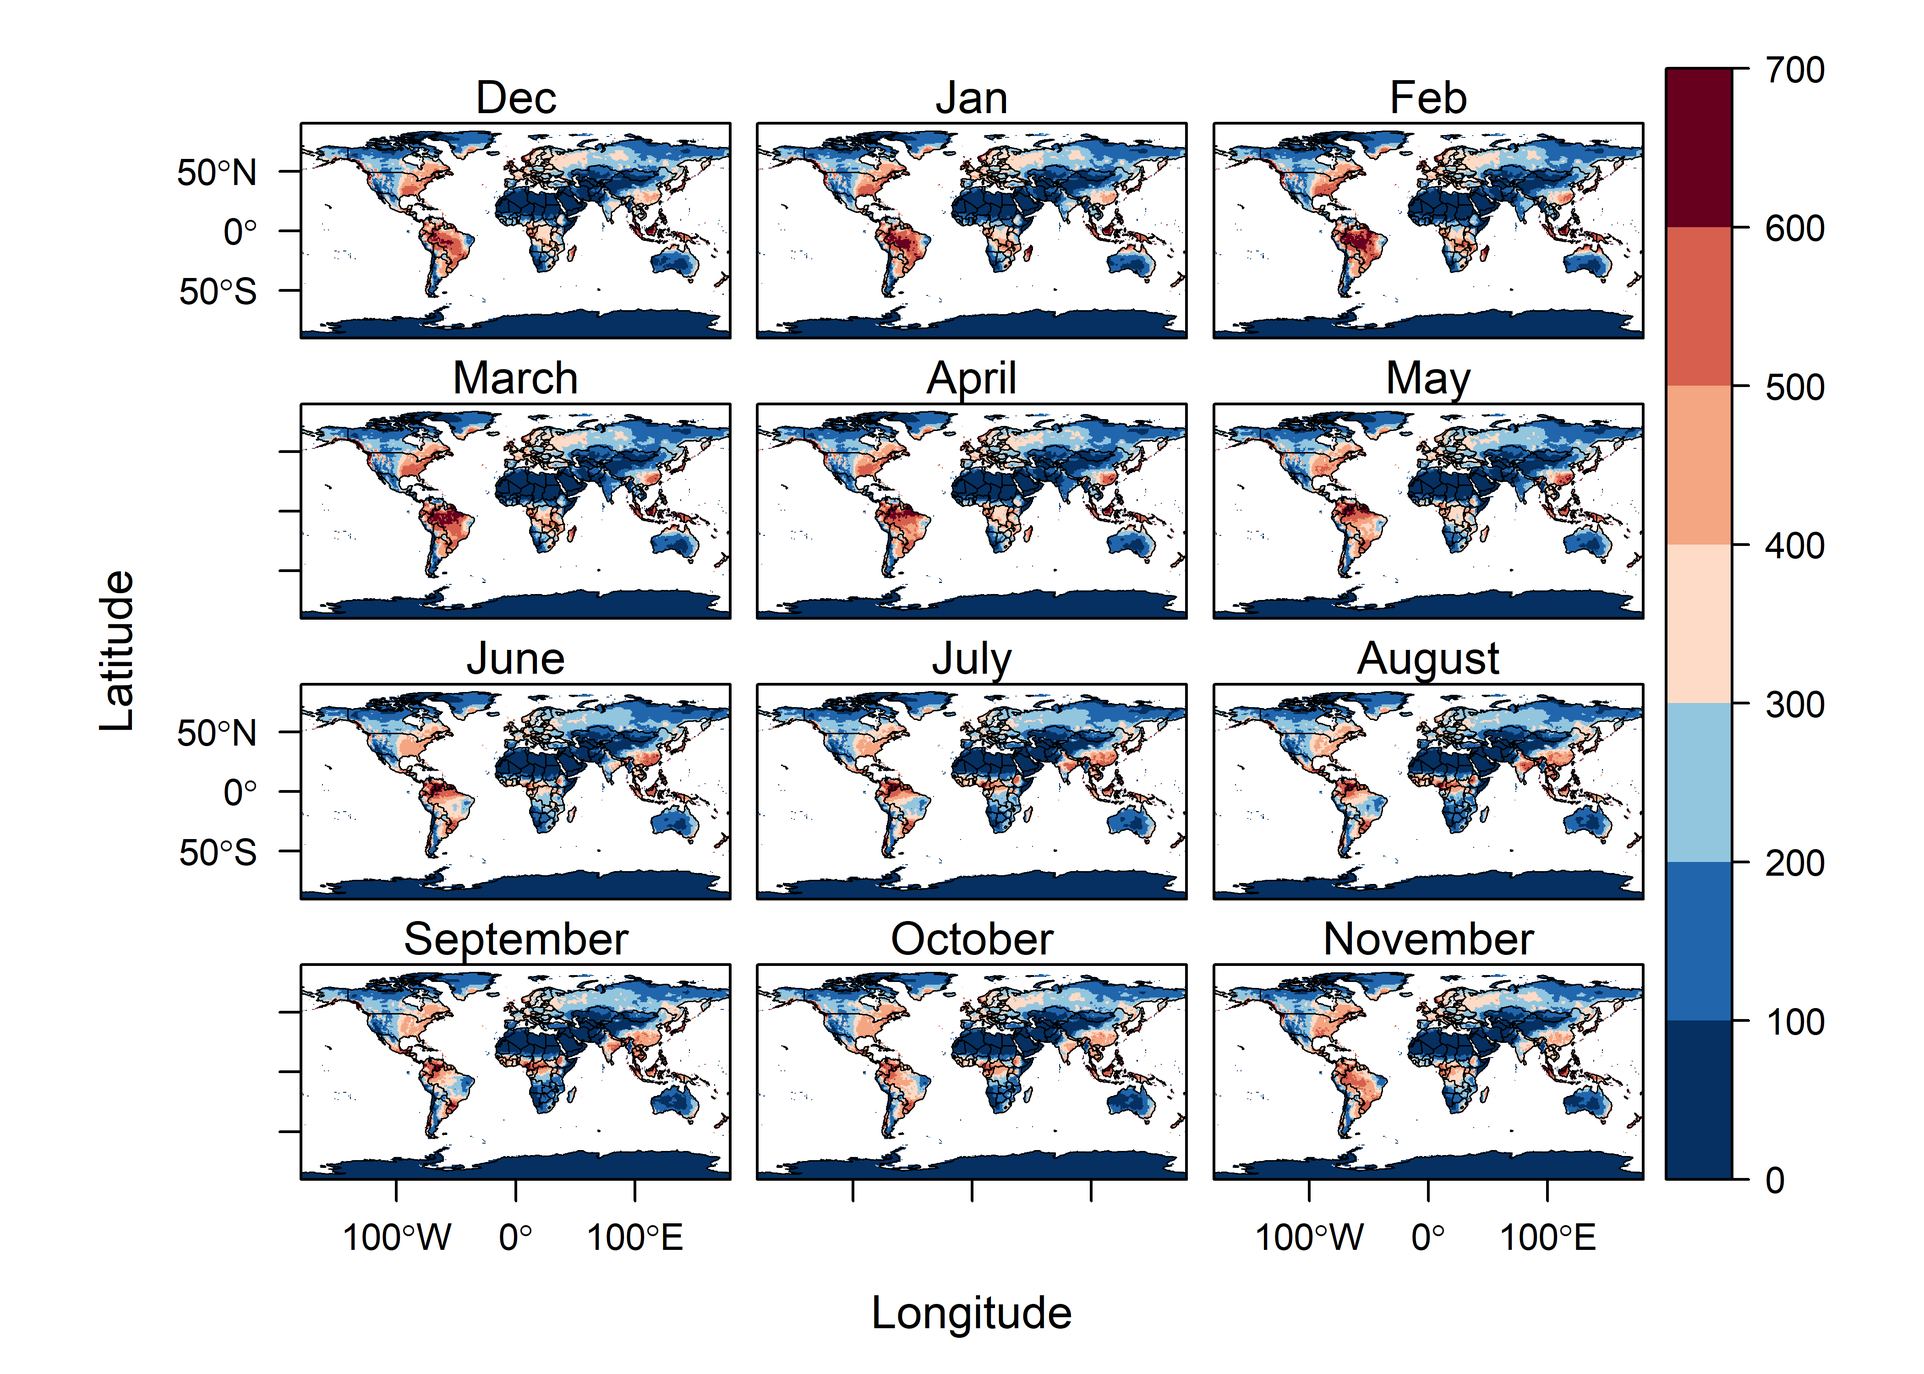
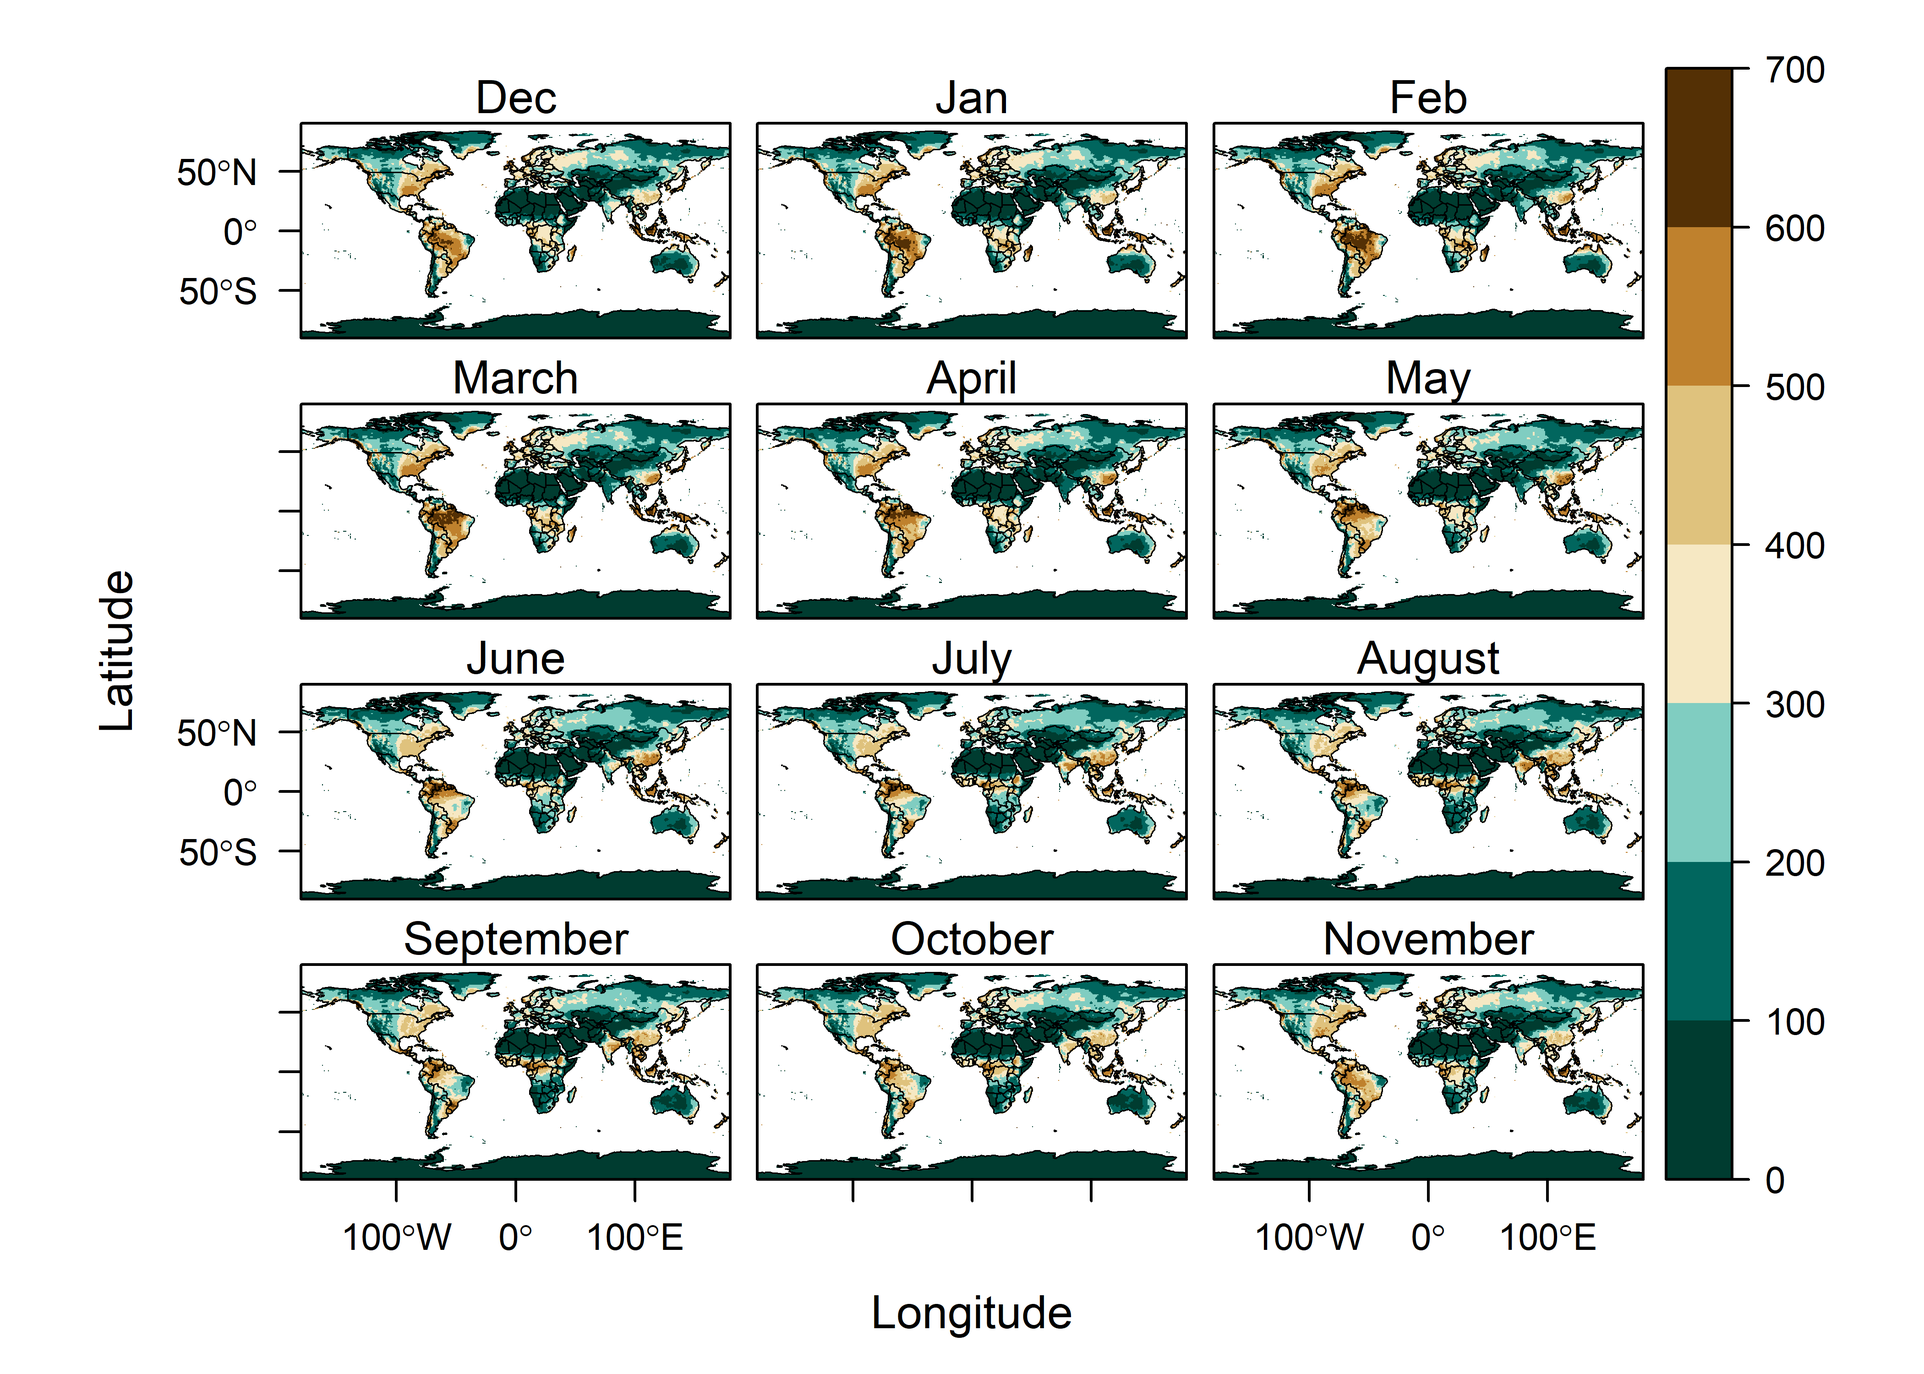
New images update

diff --git a/docs/plot_alpha_RMarkdown_Site.html b/docs/plot_alpha_RMarkdown_Site.html
@@ -409,15 +409,22 @@ $(document).ready(function () {
 <div id="load-packages" class="section level2">
 <h2><span class="header-section-number">1.1</span> Load packages</h2>
 <div class="sourceCode" id="cb1"><pre class="sourceCode r"><code class="sourceCode r"><a class="sourceLine" id="cb1-1" title="1"><span class="co"># load packages</span></a>
-<a class="sourceLine" id="cb1-2" title="2"><span class="kw">library</span>(ggplot2)</a>
-<a class="sourceLine" id="cb1-3" title="3"><span class="kw">library</span>(ncdf4)</a>
-<a class="sourceLine" id="cb1-4" title="4"><span class="kw">library</span>(raster)</a>
-<a class="sourceLine" id="cb1-5" title="5"><span class="kw">library</span>(rasterVis)</a>
-<a class="sourceLine" id="cb1-6" title="6"><span class="kw">library</span>(RColorBrewer)</a>
-<a class="sourceLine" id="cb1-7" title="7"><span class="kw">library</span>(ggthemes)</a>
-<a class="sourceLine" id="cb1-8" title="8"><span class="kw">library</span>(ncdf.tools)</a>
-<a class="sourceLine" id="cb1-9" title="9"><span class="kw">library</span>(zoo)</a>
-<a class="sourceLine" id="cb1-10" title="10"><span class="kw">library</span>(sf)</a></code></pre></div>
+<a class="sourceLine" id="cb1-2" title="2"><span class="kw">library</span>(ggplot2)</a></code></pre></div>
+<pre><code>## Warning: package &#39;ggplot2&#39; was built under R version 3.5.3</code></pre>
+<div class="sourceCode" id="cb3"><pre class="sourceCode r"><code class="sourceCode r"><a class="sourceLine" id="cb3-1" title="1"><span class="kw">library</span>(ncdf4)</a></code></pre></div>
+<pre><code>## Warning: package &#39;ncdf4&#39; was built under R version 3.5.3</code></pre>
+<div class="sourceCode" id="cb5"><pre class="sourceCode r"><code class="sourceCode r"><a class="sourceLine" id="cb5-1" title="1"><span class="kw">library</span>(raster)</a></code></pre></div>
+<pre><code>## Warning: package &#39;raster&#39; was built under R version 3.5.3</code></pre>
+<div class="sourceCode" id="cb7"><pre class="sourceCode r"><code class="sourceCode r"><a class="sourceLine" id="cb7-1" title="1"><span class="kw">library</span>(rasterVis)</a></code></pre></div>
+<pre><code>## Warning: package &#39;rasterVis&#39; was built under R version 3.5.3</code></pre>
+<pre><code>## Warning: package &#39;latticeExtra&#39; was built under R version 3.5.3</code></pre>
+<div class="sourceCode" id="cb10"><pre class="sourceCode r"><code class="sourceCode r"><a class="sourceLine" id="cb10-1" title="1"><span class="kw">library</span>(RColorBrewer)</a>
+<a class="sourceLine" id="cb10-2" title="2"><span class="kw">library</span>(ggthemes)</a>
+<a class="sourceLine" id="cb10-3" title="3"><span class="kw">library</span>(ncdf.tools)</a></code></pre></div>
+<pre><code>## Warning: package &#39;ncdf.tools&#39; was built under R version 3.5.3</code></pre>
+<div class="sourceCode" id="cb12"><pre class="sourceCode r"><code class="sourceCode r"><a class="sourceLine" id="cb12-1" title="1"><span class="kw">library</span>(zoo)</a></code></pre></div>
+<pre><code>## Warning: package &#39;zoo&#39; was built under R version 3.5.3</code></pre>
+<div class="sourceCode" id="cb14"><pre class="sourceCode r"><code class="sourceCode r"><a class="sourceLine" id="cb14-1" title="1"><span class="kw">library</span>(sf)</a></code></pre></div>
 </div>
 </div>
 <div id="read-data" class="section level1">
@@ -427,31 +434,31 @@ $(document).ready(function () {
 <div id="read-a-shapefile" class="section level3">
 <h3><span class="header-section-number">2.1.1</span> Read a Shapefile</h3>
 <p>Read a shapefile</p>
-<div class="sourceCode" id="cb2"><pre class="sourceCode r"><code class="sourceCode r"><a class="sourceLine" id="cb2-1" title="1">shp_path &lt;-<span class="st"> &quot;C:</span><span class="ch">\\</span><span class="st">Users</span><span class="ch">\\</span><span class="st">jonjo</span><span class="ch">\\</span><span class="st">Documents</span><span class="ch">\\</span><span class="st">projects</span><span class="ch">\\</span><span class="st">geog490</span><span class="ch">\\</span><span class="st">data</span><span class="ch">\\</span><span class="st">&quot;</span></a>
-<a class="sourceLine" id="cb2-2" title="2">shp_name &lt;-<span class="st"> &quot;ne_110m_admin_0_countries.shp&quot;</span></a>
-<a class="sourceLine" id="cb2-3" title="3">shp_file &lt;-<span class="st"> </span><span class="kw">paste</span>(shp_path,shp_name,<span class="dt">sep=</span><span class="st">&quot;&quot;</span>)</a>
-<a class="sourceLine" id="cb2-4" title="4"></a>
-<a class="sourceLine" id="cb2-5" title="5">world_shp &lt;-<span class="st"> </span><span class="kw">read_sf</span>(shp_file)</a>
-<a class="sourceLine" id="cb2-6" title="6">world_outline &lt;-<span class="st"> </span><span class="kw">as</span>(<span class="kw">st_geometry</span>(world_shp), <span class="dt">Class =</span> <span class="st">&quot;Spatial&quot;</span>)</a></code></pre></div>
+<div class="sourceCode" id="cb15"><pre class="sourceCode r"><code class="sourceCode r"><a class="sourceLine" id="cb15-1" title="1">shp_path &lt;-<span class="st"> &quot;C:</span><span class="ch">\\</span><span class="st">Users</span><span class="ch">\\</span><span class="st">jonjo</span><span class="ch">\\</span><span class="st">Documents</span><span class="ch">\\</span><span class="st">projects</span><span class="ch">\\</span><span class="st">geog490</span><span class="ch">\\</span><span class="st">data</span><span class="ch">\\</span><span class="st">&quot;</span></a>
+<a class="sourceLine" id="cb15-2" title="2">shp_name &lt;-<span class="st"> &quot;ne_110m_admin_0_countries.shp&quot;</span></a>
+<a class="sourceLine" id="cb15-3" title="3">shp_file &lt;-<span class="st"> </span><span class="kw">paste</span>(shp_path,shp_name,<span class="dt">sep=</span><span class="st">&quot;&quot;</span>)</a>
+<a class="sourceLine" id="cb15-4" title="4"></a>
+<a class="sourceLine" id="cb15-5" title="5">world_shp &lt;-<span class="st"> </span><span class="kw">read_sf</span>(shp_file)</a>
+<a class="sourceLine" id="cb15-6" title="6">world_outline &lt;-<span class="st"> </span><span class="kw">as</span>(<span class="kw">st_geometry</span>(world_shp), <span class="dt">Class =</span> <span class="st">&quot;Spatial&quot;</span>)</a></code></pre></div>
 </div>
 <div id="plot-the-shapefile" class="section level3">
 <h3><span class="header-section-number">2.1.2</span> Plot the shapefile</h3>
-<div class="sourceCode" id="cb3"><pre class="sourceCode r"><code class="sourceCode r"><a class="sourceLine" id="cb3-1" title="1"><span class="co"># plot the world outlines</span></a>
-<a class="sourceLine" id="cb3-2" title="2"><span class="kw">plot</span>(world_outline,<span class="dt">col=</span><span class="st">&quot;gray80&quot;</span>,<span class="dt">lwd=</span><span class="dv">1</span>)</a></code></pre></div>
+<div class="sourceCode" id="cb16"><pre class="sourceCode r"><code class="sourceCode r"><a class="sourceLine" id="cb16-1" title="1"><span class="co"># plot the world outlines</span></a>
+<a class="sourceLine" id="cb16-2" title="2"><span class="kw">plot</span>(world_outline,<span class="dt">col=</span><span class="st">&quot;gray80&quot;</span>,<span class="dt">lwd=</span><span class="dv">1</span>)</a></code></pre></div>
 <p><img src="plot_alpha_RMarkdown_Site_files/figure-html/plot_shapefile-1.png" width="2100" /></p>
 </div>
 </div>
 <div id="read-soil" class="section level2">
 <h2><span class="header-section-number">2.2</span> Read Soil</h2>
 <p>Now read in soil</p>
-<div class="sourceCode" id="cb4"><pre class="sourceCode r"><code class="sourceCode r"><a class="sourceLine" id="cb4-1" title="1">nc_path &lt;-<span class="st"> &quot;C:</span><span class="ch">\\</span><span class="st">Users</span><span class="ch">\\</span><span class="st">jonjo</span><span class="ch">\\</span><span class="st">Documents</span><span class="ch">\\</span><span class="st">geog490</span><span class="ch">\\</span><span class="st">data</span><span class="ch">\\</span><span class="st">&quot;</span></a>
-<a class="sourceLine" id="cb4-2" title="2">nc_name &lt;-<span class="st"> &quot;soilw.mon.ltm.v2.nc&quot;</span></a>
-<a class="sourceLine" id="cb4-3" title="3">nc_file &lt;-<span class="st"> </span><span class="kw">paste</span>(nc_path,nc_name,<span class="dt">sep=</span><span class="st">&quot;&quot;</span>)</a>
-<a class="sourceLine" id="cb4-4" title="4"></a>
-<a class="sourceLine" id="cb4-5" title="5">soil_raster &lt;-<span class="st"> </span><span class="kw">raster</span>(nc_file,<span class="dt">varname=</span><span class="st">&quot;soilw&quot;</span>)</a>
-<a class="sourceLine" id="cb4-6" title="6"></a>
-<a class="sourceLine" id="cb4-7" title="7">soil &lt;-<span class="st"> </span><span class="kw">rotate</span>(soil_raster)</a>
-<a class="sourceLine" id="cb4-8" title="8">soil</a></code></pre></div>
+<div class="sourceCode" id="cb17"><pre class="sourceCode r"><code class="sourceCode r"><a class="sourceLine" id="cb17-1" title="1">nc_path &lt;-<span class="st"> &quot;C:</span><span class="ch">\\</span><span class="st">Users</span><span class="ch">\\</span><span class="st">jonjo</span><span class="ch">\\</span><span class="st">Documents</span><span class="ch">\\</span><span class="st">geog490</span><span class="ch">\\</span><span class="st">data</span><span class="ch">\\</span><span class="st">&quot;</span></a>
+<a class="sourceLine" id="cb17-2" title="2">nc_name &lt;-<span class="st"> &quot;soilw.mon.ltm.v2.nc&quot;</span></a>
+<a class="sourceLine" id="cb17-3" title="3">nc_file &lt;-<span class="st"> </span><span class="kw">paste</span>(nc_path,nc_name,<span class="dt">sep=</span><span class="st">&quot;&quot;</span>)</a>
+<a class="sourceLine" id="cb17-4" title="4"></a>
+<a class="sourceLine" id="cb17-5" title="5">soil_raster &lt;-<span class="st"> </span><span class="kw">raster</span>(nc_file,<span class="dt">varname=</span><span class="st">&quot;soilw&quot;</span>)</a>
+<a class="sourceLine" id="cb17-6" title="6"></a>
+<a class="sourceLine" id="cb17-7" title="7">soil &lt;-<span class="st"> </span><span class="kw">rotate</span>(soil_raster)</a>
+<a class="sourceLine" id="cb17-8" title="8">soil</a></code></pre></div>
 <pre><code>## class       : RasterLayer 
 ## dimensions  : 360, 720, 259200  (nrow, ncol, ncell)
 ## resolution  : 0.5, 0.5  (x, y)
@@ -466,25 +473,25 @@ $(document).ready(function () {
 <div id="plot-the-data" class="section level1">
 <h1><span class="header-section-number">3</span> Plot the data</h1>
 <p>Finally, plot alpha using the <code>levelplot()</code> function from <code>rasterVis</code>:</p>
-<div class="sourceCode" id="cb6"><pre class="sourceCode r"><code class="sourceCode r"><a class="sourceLine" id="cb6-1" title="1"><span class="co"># rasterVis plot</span></a>
-<a class="sourceLine" id="cb6-2" title="2">maptheme &lt;-<span class="st"> </span><span class="kw">rasterTheme</span>(<span class="dt">region=</span><span class="kw">brewer.pal</span>(<span class="dv">8</span>,<span class="st">&quot;Greens&quot;</span>))</a>
-<a class="sourceLine" id="cb6-3" title="3">plt &lt;-<span class="st"> </span><span class="kw">levelplot</span>(soil, <span class="dt">margin=</span>F, <span class="dt">par.settings=</span>maptheme)</a>
-<a class="sourceLine" id="cb6-4" title="4">plt <span class="op">+</span><span class="st"> </span>latticeExtra<span class="op">::</span><span class="kw">layer</span>(<span class="kw">sp.lines</span>(world_outline, <span class="dt">col=</span><span class="st">&quot;gray30&quot;</span>, <span class="dt">lwd=</span><span class="fl">0.5</span>))</a></code></pre></div>
+<div class="sourceCode" id="cb19"><pre class="sourceCode r"><code class="sourceCode r"><a class="sourceLine" id="cb19-1" title="1"><span class="co"># rasterVis plot</span></a>
+<a class="sourceLine" id="cb19-2" title="2">maptheme &lt;-<span class="st"> </span><span class="kw">rasterTheme</span>(<span class="dt">region=</span><span class="kw">brewer.pal</span>(<span class="dv">8</span>,<span class="st">&quot;Greens&quot;</span>))</a>
+<a class="sourceLine" id="cb19-3" title="3">plt &lt;-<span class="st"> </span><span class="kw">levelplot</span>(soil, <span class="dt">margin=</span>F, <span class="dt">par.settings=</span>maptheme)</a>
+<a class="sourceLine" id="cb19-4" title="4">plt <span class="op">+</span><span class="st"> </span>latticeExtra<span class="op">::</span><span class="kw">layer</span>(<span class="kw">sp.lines</span>(world_outline, <span class="dt">col=</span><span class="st">&quot;gray30&quot;</span>, <span class="dt">lwd=</span><span class="fl">0.5</span>))</a></code></pre></div>
 <p><img src="plot_alpha_RMarkdown_Site_files/figure-html/plot_data-1.png" width="2100" /></p>
 </div>
 <div id="plot-the-next-12-months" class="section level1">
 <h1><span class="header-section-number">4</span> Plot the next 12 months</h1>
-<div class="sourceCode" id="cb7"><pre class="sourceCode r"><code class="sourceCode r"><a class="sourceLine" id="cb7-1" title="1">NC_soil_ltm &lt;-<span class="st"> </span><span class="kw">stack</span>(nc_file,<span class="dt">varname=</span><span class="st">&quot;soilw&quot;</span>)</a>
-<a class="sourceLine" id="cb7-2" title="2">NC_soil_ltm &lt;-<span class="st"> </span><span class="kw">rotate</span>(NC_soil_ltm)</a>
-<a class="sourceLine" id="cb7-3" title="3"><span class="kw">names</span>(NC_soil_ltm) &lt;-<span class="st"> </span><span class="kw">c</span>(<span class="st">&quot;Dec&quot;</span>,<span class="st">&quot;Jan&quot;</span>,<span class="st">&quot;Feb&quot;</span>,<span class="st">&quot;March&quot;</span>,<span class="st">&quot;April&quot;</span>,<span class="st">&quot;May&quot;</span>,<span class="st">&quot;June&quot;</span>,<span class="st">&quot;July&quot;</span>,<span class="st">&quot;August&quot;</span>,<span class="st">&quot;September&quot;</span>,<span class="st">&quot;October&quot;</span>,<span class="st">&quot;November&quot;</span>)</a>
-<a class="sourceLine" id="cb7-4" title="4">pngfile &lt;-<span class="st"> &quot;NC_soil_ltm.png&quot;</span></a>
-<a class="sourceLine" id="cb7-5" title="5"><span class="co">#png(pngfile, width=729, height=729) # open the file</span></a>
-<a class="sourceLine" id="cb7-6" title="6">cutpts &lt;-<span class="st"> </span><span class="kw">c</span>(<span class="dv">0</span>,<span class="dv">100</span>,<span class="dv">200</span>,<span class="dv">300</span>,<span class="dv">400</span>,<span class="dv">500</span>,<span class="dv">600</span>,<span class="dv">700</span>)</a>
-<a class="sourceLine" id="cb7-7" title="7">cutpts</a></code></pre></div>
+<div class="sourceCode" id="cb20"><pre class="sourceCode r"><code class="sourceCode r"><a class="sourceLine" id="cb20-1" title="1">NC_soil_ltm &lt;-<span class="st"> </span><span class="kw">stack</span>(nc_file,<span class="dt">varname=</span><span class="st">&quot;soilw&quot;</span>)</a>
+<a class="sourceLine" id="cb20-2" title="2">NC_soil_ltm &lt;-<span class="st"> </span><span class="kw">rotate</span>(NC_soil_ltm)</a>
+<a class="sourceLine" id="cb20-3" title="3"><span class="kw">names</span>(NC_soil_ltm) &lt;-<span class="st"> </span><span class="kw">c</span>(<span class="st">&quot;Dec&quot;</span>,<span class="st">&quot;Jan&quot;</span>,<span class="st">&quot;Feb&quot;</span>,<span class="st">&quot;March&quot;</span>,<span class="st">&quot;April&quot;</span>,<span class="st">&quot;May&quot;</span>,<span class="st">&quot;June&quot;</span>,<span class="st">&quot;July&quot;</span>,<span class="st">&quot;August&quot;</span>,<span class="st">&quot;September&quot;</span>,<span class="st">&quot;October&quot;</span>,<span class="st">&quot;November&quot;</span>)</a>
+<a class="sourceLine" id="cb20-4" title="4">pngfile &lt;-<span class="st"> &quot;NC_soil_ltm.png&quot;</span></a>
+<a class="sourceLine" id="cb20-5" title="5"><span class="co">#png(pngfile, width=729, height=729) # open the file</span></a>
+<a class="sourceLine" id="cb20-6" title="6">cutpts &lt;-<span class="st"> </span><span class="kw">c</span>(<span class="dv">0</span>,<span class="dv">100</span>,<span class="dv">200</span>,<span class="dv">300</span>,<span class="dv">400</span>,<span class="dv">500</span>,<span class="dv">600</span>,<span class="dv">700</span>)</a>
+<a class="sourceLine" id="cb20-7" title="7">cutpts</a></code></pre></div>
 <pre><code>## [1]   0 100 200 300 400 500 600 700</code></pre>
-<div class="sourceCode" id="cb9"><pre class="sourceCode r"><code class="sourceCode r"><a class="sourceLine" id="cb9-1" title="1">plt &lt;-<span class="st"> </span><span class="kw">levelplot</span>(NC_soil_ltm , <span class="dt">at=</span>cutpts, <span class="dt">cuts=</span><span class="dv">11</span>, <span class="dt">pretty=</span>T, </a>
-<a class="sourceLine" id="cb9-2" title="2">                 <span class="dt">col.regions=</span>(<span class="kw">rev</span>(<span class="kw">brewer.pal</span>(<span class="dv">10</span>,<span class="st">&quot;RdBu&quot;</span>))))</a>
-<a class="sourceLine" id="cb9-3" title="3">plt <span class="op">+</span><span class="st"> </span>latticeExtra<span class="op">::</span><span class="kw">layer</span>(<span class="kw">sp.lines</span>(world_outline, <span class="dt">col=</span><span class="st">&quot;black&quot;</span>, <span class="dt">lwd=</span><span class="fl">0.5</span>))</a></code></pre></div>
+<div class="sourceCode" id="cb22"><pre class="sourceCode r"><code class="sourceCode r"><a class="sourceLine" id="cb22-1" title="1">plt &lt;-<span class="st"> </span><span class="kw">levelplot</span>(NC_soil_ltm , <span class="dt">at=</span>cutpts, <span class="dt">cuts=</span><span class="dv">11</span>, <span class="dt">pretty=</span>T, </a>
+<a class="sourceLine" id="cb22-2" title="2">                 <span class="dt">col.regions=</span>(<span class="kw">rev</span>(<span class="kw">brewer.pal</span>(<span class="dv">10</span>,<span class="st">&quot;BrBG&quot;</span>))))</a>
+<a class="sourceLine" id="cb22-3" title="3">plt <span class="op">+</span><span class="st"> </span>latticeExtra<span class="op">::</span><span class="kw">layer</span>(<span class="kw">sp.lines</span>(world_outline, <span class="dt">col=</span><span class="st">&quot;black&quot;</span>, <span class="dt">lwd=</span><span class="fl">0.5</span>))</a></code></pre></div>
 <p><img src="plot_alpha_RMarkdown_Site_files/figure-html/plot_months-1.png" width="2100" /></p>
 </div>
 
